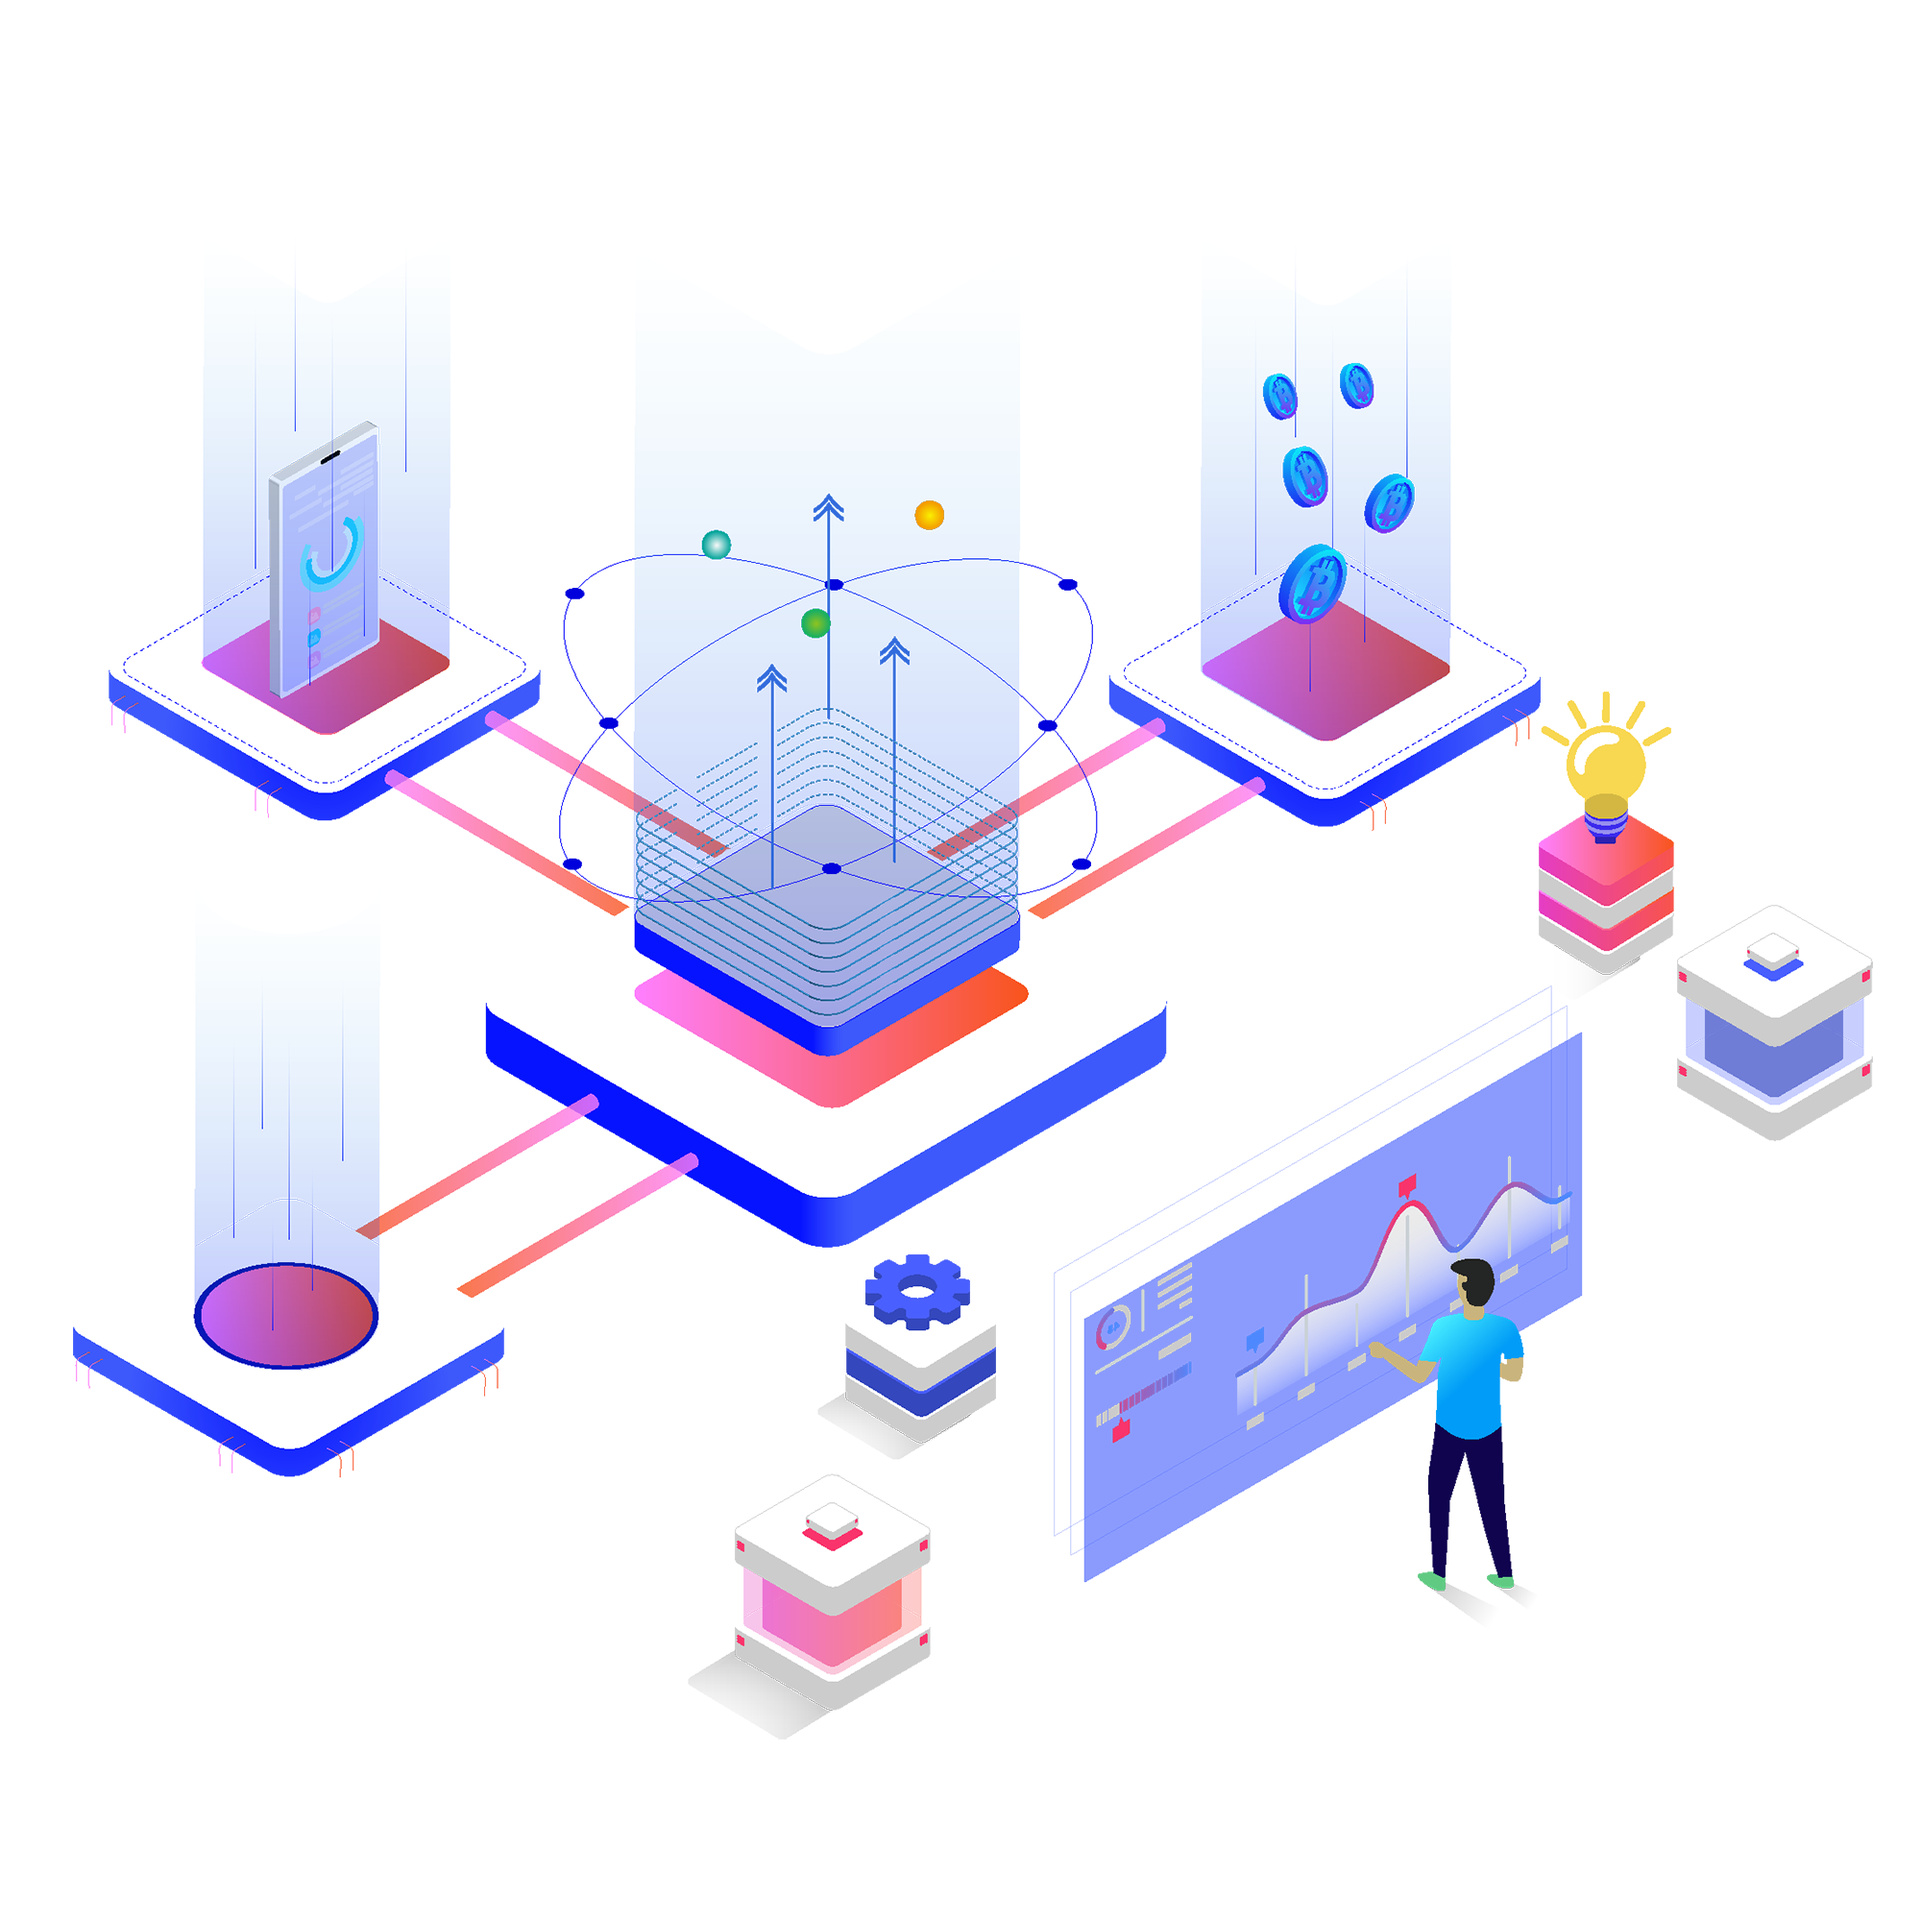
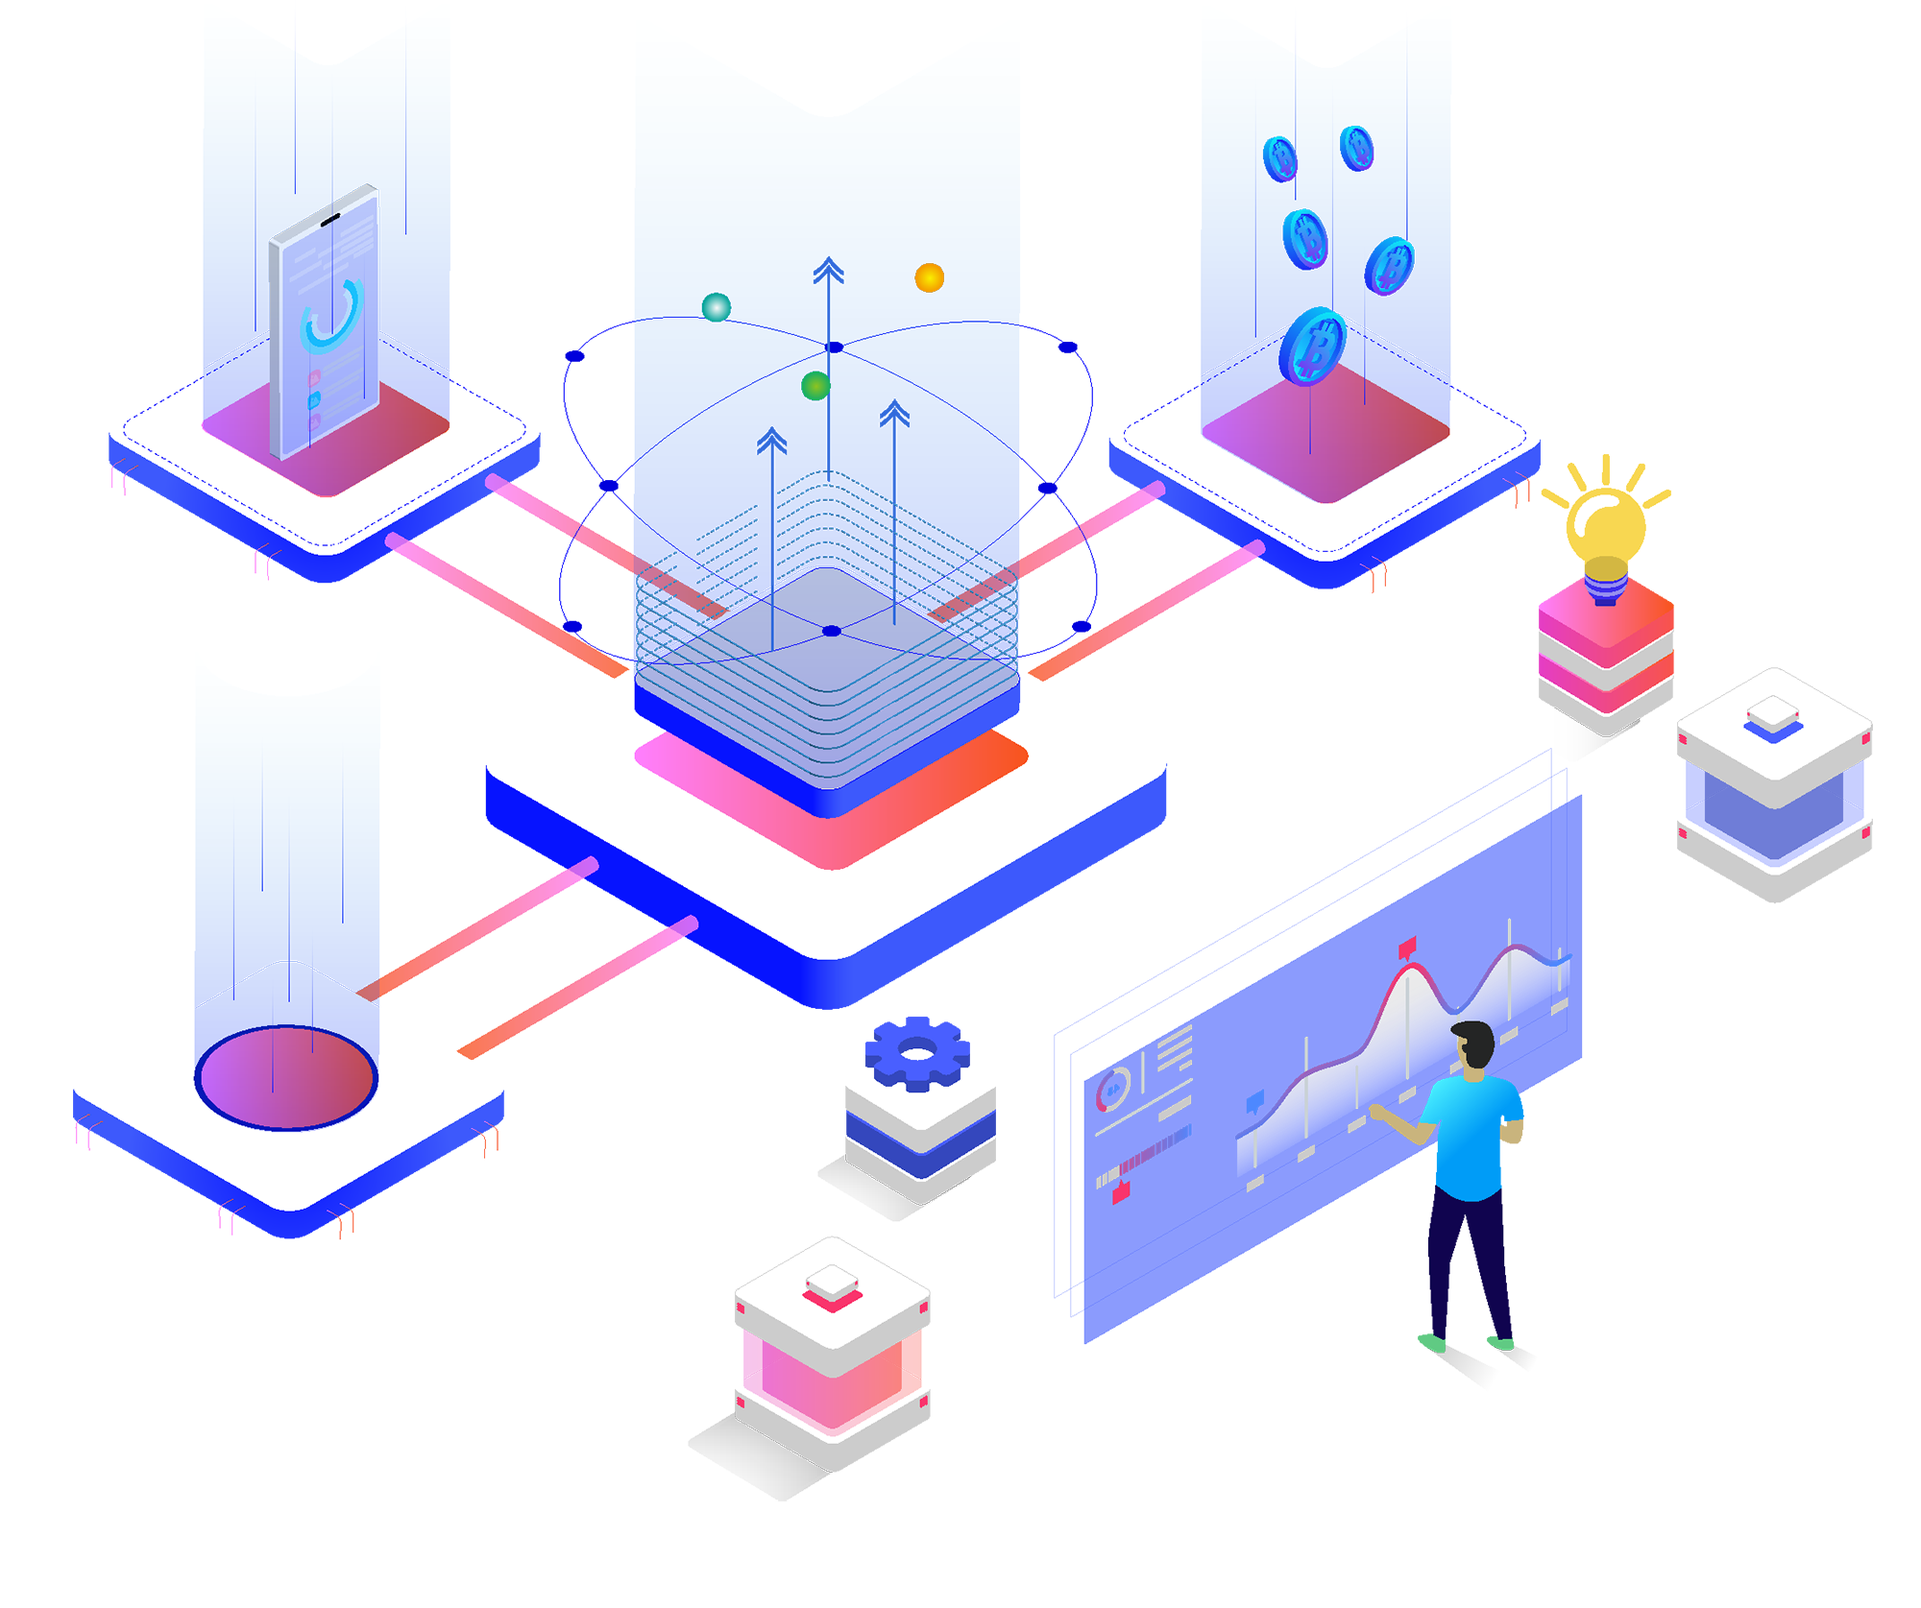
Update to imagery and adding redirect

diff --git a/src/Components/Hero.js b/src/Components/Hero.js
@@ -20,7 +20,7 @@ class Hero extends React.Component {
 
     if (dataHandlerService.validName()){
       return (
-        <div className="hero text-white pt-5">
+        <div className="hero text-white pt-5 mb-5">
           <div className="container pt-5">
             <div className="row">
               <div className="col-lg-4">
@@ -43,7 +43,7 @@ class Hero extends React.Component {
 
     if (this.state.expanded === true && this.state.entered != true) {
       return (
-        <div className="hero text-white pt-5">
+        <div className="hero text-white pt-5 mb-5">
           <div className="container pt-5">
             <div className="row">
               <div className="col-lg-4">
@@ -57,6 +57,7 @@ class Hero extends React.Component {
                         id="username"
                         name="username"
                         type="text"
+                        required
                         placeholder="Gandalf the grey"
                       />
                       
@@ -78,7 +79,7 @@ class Hero extends React.Component {
     }
     else if(this.state.expanded === true && this.state.entered === true){
       return (
-        <div className="hero text-white pt-5">
+        <div className="hero text-white pt-5 mb-5">
           <div className="container pt-5">
             <div className="row">
               <div className="col-lg-4">
@@ -109,7 +110,7 @@ class Hero extends React.Component {
     }
     else {
       return (
-        <div className="hero text-white pt-5">
+        <div className="hero text-white pt-5 mb-5">
         <div className="container pt-5">
           <div className="row">
             <div className="col-lg-4">

diff --git a/src/pages/educationPage.js b/src/pages/educationPage.js
@@ -31,8 +31,8 @@ class educationPage extends React.Component {
           transition={{ duration: 0.62 }}
         >
           <div className="Education text-black min-height-100vh padding-bottom-84px">
-            <div className="container pt-4 text-white">
-              <div className="row margin-top-64px">
+            <div className="container pt-4 text-white margin-bottom-64px">
+              <div className="row margin-top-84px">
                 <div className="col-lg-6">
                   <div className="v-align">
                   <h1 className="mb-2">
@@ -49,7 +49,7 @@ class educationPage extends React.Component {
                 <div className="col-lg-6 text-center">
                   <img
                     className="width100 mb-5 v-align"
-                    src="./Assets/Images/—Pngtree—network bitcoin technology blockchain big_4034259.png"
+                    src="./Assets/Images/2.svg"
                   />
                 </div>
               </div>
